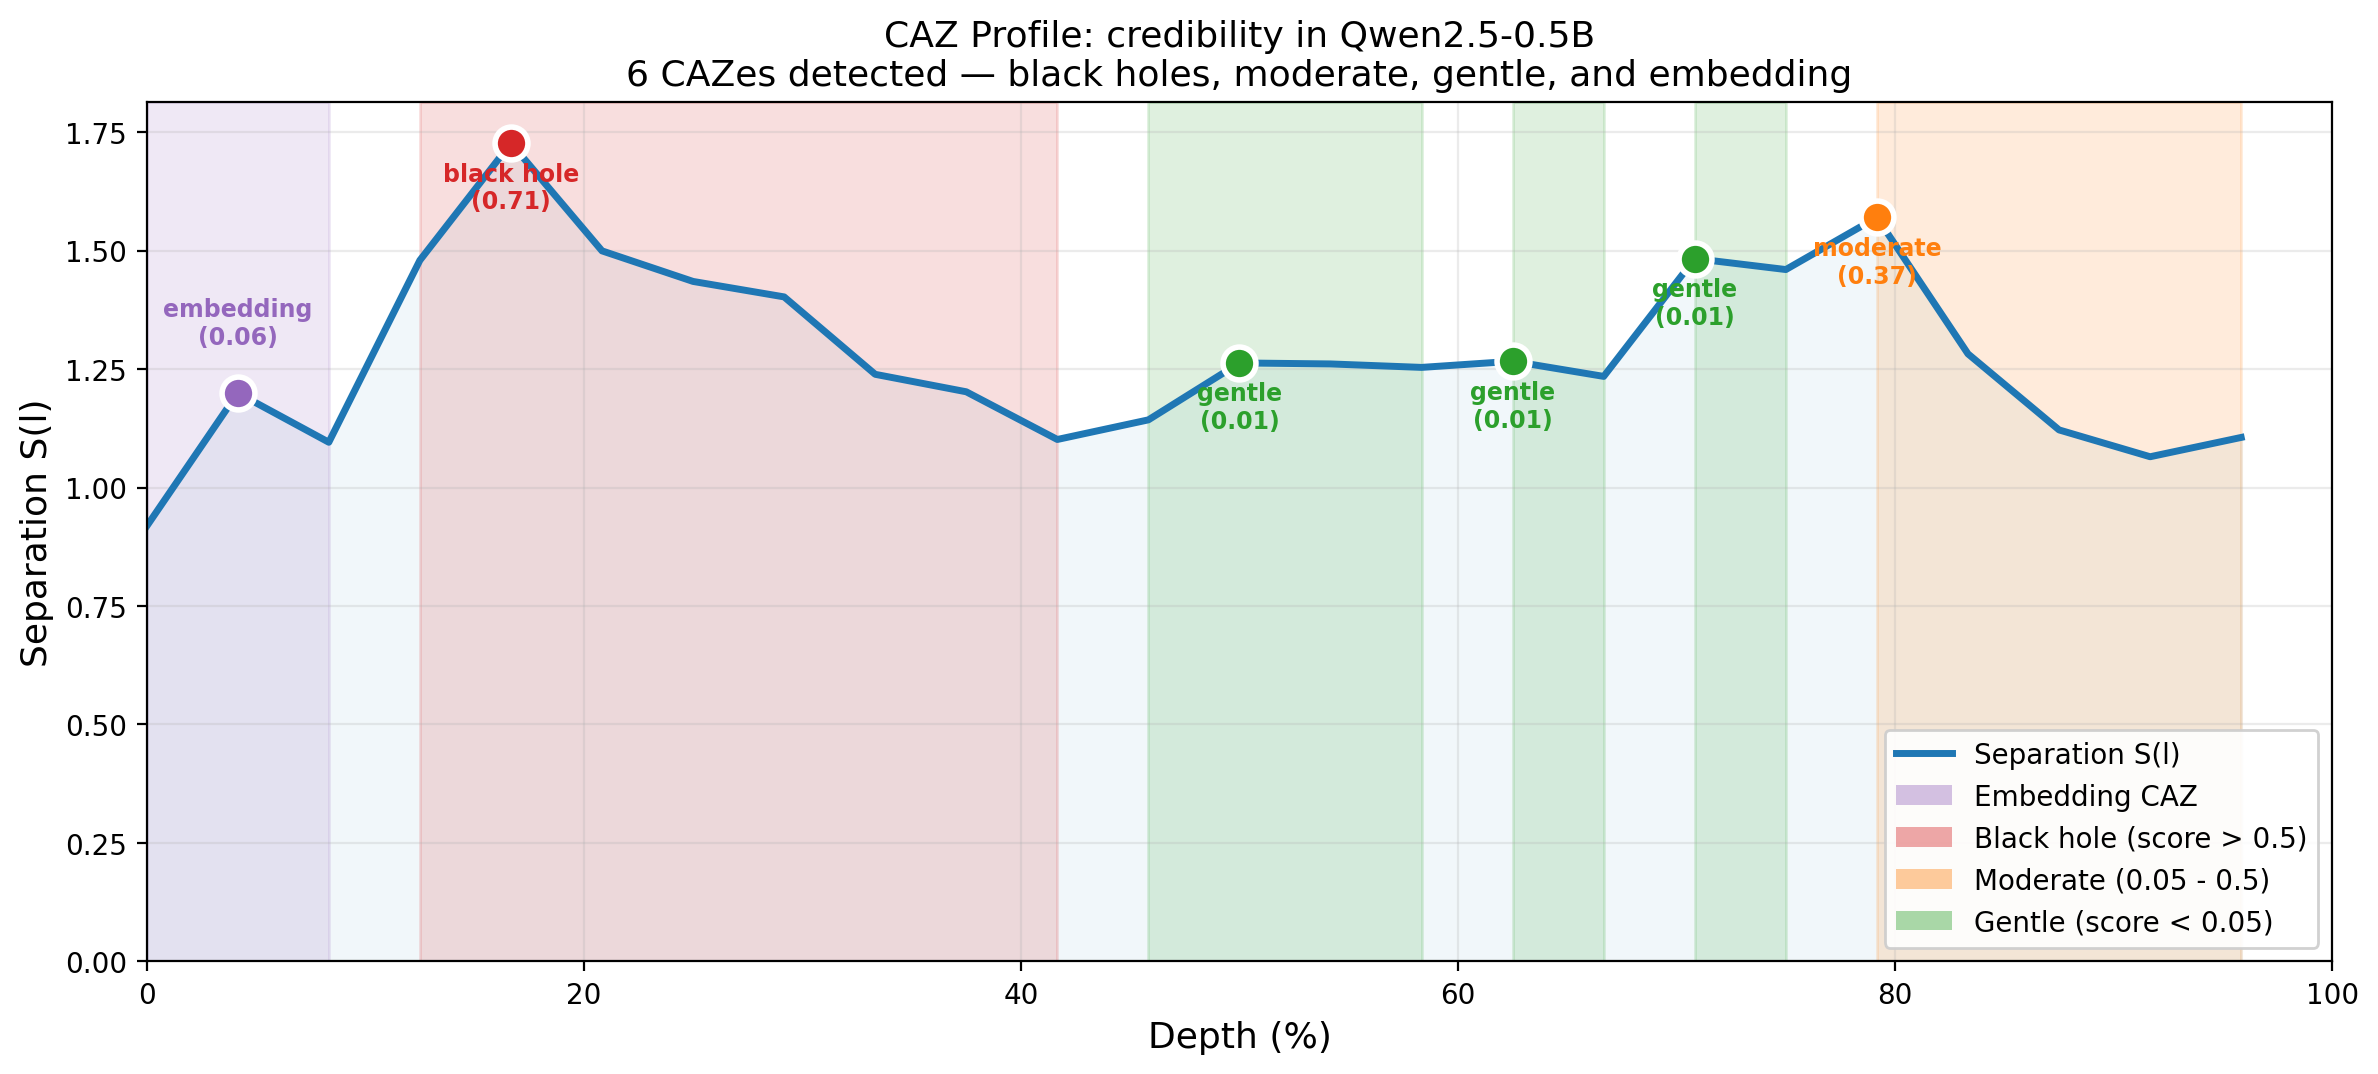
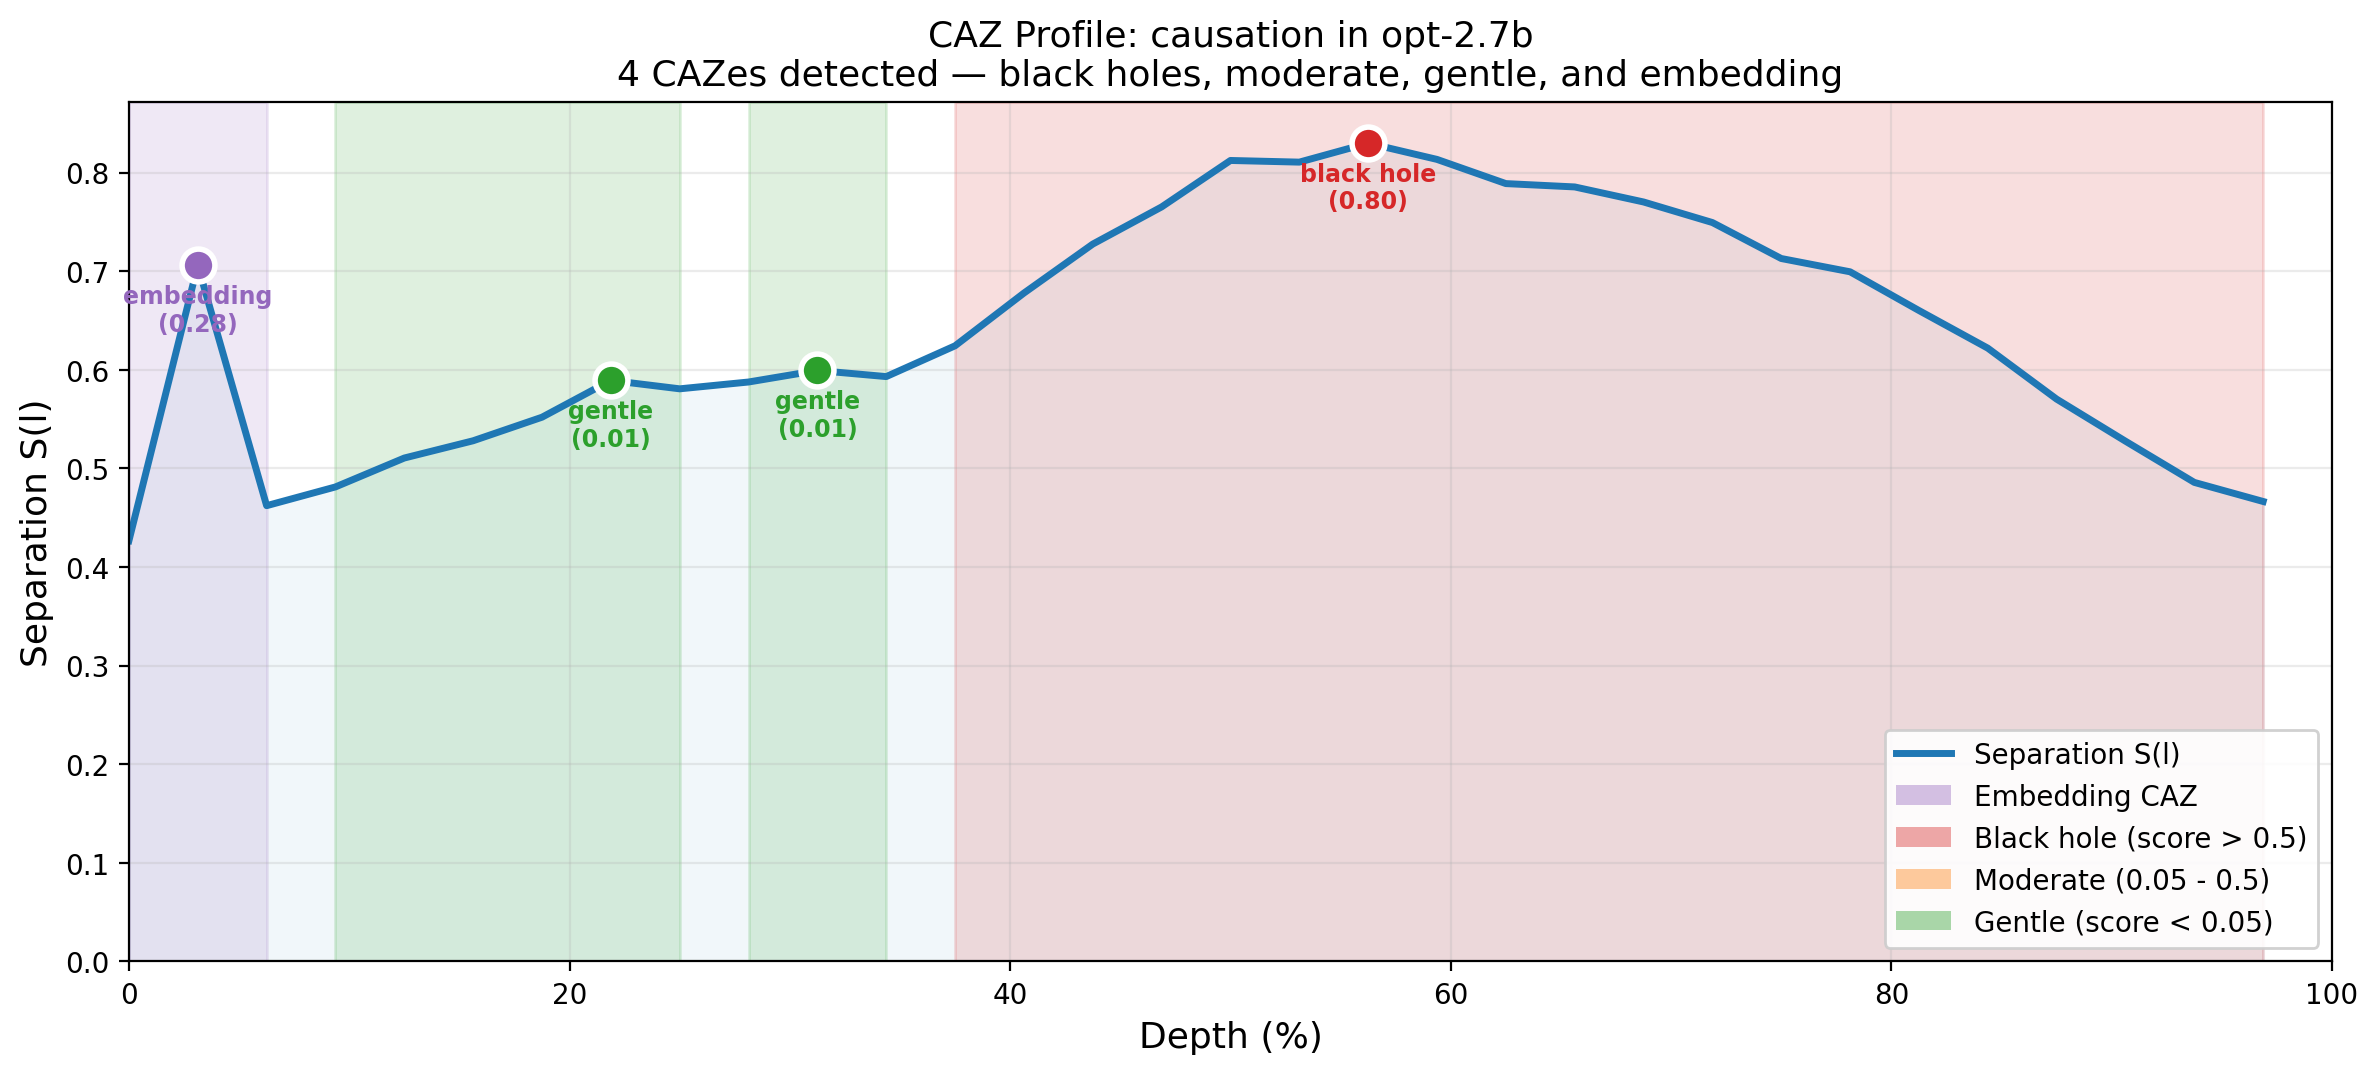
update: plain-language metric explanations, fix viz titles, new Figure 2 model
- Add "in plain terms" paragraph after each metric (S, C, v)
- Figure 2 now shows causation in opt-2.7b (different family/concept from Fig 1)
- Fix hardcoded concept names in viz titles — now read from JSON data
- viz_caz_framework_figures.py excludes instruct models from extraction search

diff --git a/viz_caz_framework_figures.py b/viz_caz_framework_figures.py
@@ -140,7 +140,8 @@ def generate_detection_comparison():
         )
 
     model_name2 = data_multi["model_id"].split("/")[-1]
-    ax.set_title(f"CAZ Profile (Scored Detection)\ncredibility in {model_name2}", fontsize=12)
+    concept_name2 = data_multi.get("concept", "unknown")
+    ax.set_title(f"CAZ Profile (Scored Detection)\n{concept_name2} in {model_name2}", fontsize=12)
     ax.set_xlabel("Depth (%)", fontsize=11)
     ax.set_ylabel("Separation S(l)", fontsize=11)
     ax.set_xlim(0, 100)
@@ -169,7 +170,7 @@ def generate_proof_of_concept():
     from matplotlib.lines import Line2D
     from matplotlib.patches import Patch
 
-    multi_file = find_extraction("Qwen2.5_0.5B", "credibility")
+    multi_file = find_extraction("opt_2.7b", "causation")
     data, metrics = load_metrics(multi_file)
     profile = find_caz_regions_scored(metrics)
     n_layers = len(metrics)
@@ -204,7 +205,7 @@ def generate_proof_of_concept():
     ax.set_xlabel("Depth (%)", fontsize=13)
     ax.set_ylabel("Separation S(l)", fontsize=13)
     ax.set_title(
-        f"CAZ Profile: credibility in {data['model_id'].split('/')[-1]}\n"
+        f"CAZ Profile: {data.get('concept', 'unknown')} in {data['model_id'].split('/')[-1]}\n"
         f"{len(profile.regions)} CAZes detected — black holes, moderate, gentle, and embedding",
         fontsize=13,
     )

diff --git a/CAZ_Framework.md b/CAZ_Framework.md
@@ -106,6 +106,8 @@ We define the separation at layer *l* using a Fisher-normalized criterion [Bisho
 S(l) = ||h̄_𝒜^(l) - h̄_ℬ^(l)||₂ / √[(1/2)(tr(Σ_𝒜^(l)) + tr(Σ_ℬ^(l)))]
 ```
 
+In plain terms: separation asks "if I gave you a sentence and asked whether it expresses credibility or not, how easily could you tell from the model's internal state at this layer?" A high S(l) means the model's activations for credible and non-credible text have moved far apart relative to how spread out each group is. A low S(l) means the two groups are still jumbled together. Tracking S(l) across layers reveals where the model begins to "make up its mind" about a concept.
+
 Raw centroid distance is misleading when cluster dispersion varies across layers. Early layers tend toward diffuse, high-variance representations; normalization by within-class spread corrects for this. Mahalanobis distance [Mahalanobis, 1936] would account for full covariance structure but is numerically unstable without regularization in high-dimensional activation spaces. Fisher normalization provides the appropriate tradeoff between geometric fidelity and computational feasibility for initial experiments.
 
 **Concept Coherence**
@@ -118,6 +120,8 @@ C(l) = λ₁^(l) / Σᵢ λᵢ^(l)
 
 where λᵢ^(l) are the eigenvalues of the pooled activation covariance at layer *l*, projected onto the contrastive subspace. A concept is *well-formed* when both S(l) and C(l) are high: the classes are far apart *and* the separating direction is geometrically clean.
 
+In plain terms: coherence asks "is the concept encoded as a single clean direction, or is it smeared across many dimensions?" A high C(l) means the model has committed to one dominant direction for separating the classes — the concept has crystallized into a sharp geometric feature. A low C(l) means the separation exists but is spread across multiple directions, making the concept harder to extract with a single vector. Coherence distinguishes a concept that is clearly formed from one that is still diffuse.
+
 **Concept Velocity**
 
 To identify CAZ boundaries, we compute the rate of geometric divergence between layers. Because raw layer-to-layer differences are noisy, we apply a smoothed estimate:
@@ -127,6 +131,8 @@ v_concept(l) = (1/(2k+1)) Σⱼ₌ₗ₋ₖ^(l+k) [S(j) - S(j-1)]
 ```
 
 where *k* is the smoothing half-window. A practical heuristic is k = ⌊L/24⌋, where L is total model depth, yielding k=1 for 12–24 layer models, k=2 for 48-layer models, and k=3 for 72-layer models. This scales the smoothing window proportionally to model depth and prevents false CAZ boundary detection from single anomalous layers. The appropriate value of k should ultimately be determined empirically — for models where ground-truth concept boundaries can be established via ablation, the k value that maximizes boundary prediction accuracy is preferred.
+
+In plain terms: velocity asks "is the concept forming right now, or has it already formed?" Positive velocity means separation is increasing — the model is actively constructing the concept at this layer. Negative velocity means separation is decreasing — the concept is being degraded or reallocated. Zero velocity means nothing is changing. The velocity curve marks the boundaries of the CAZ: it goes positive when assembly begins and negative when it ends.
 
 ### 3.3 CAZ Boundary Detection
 
